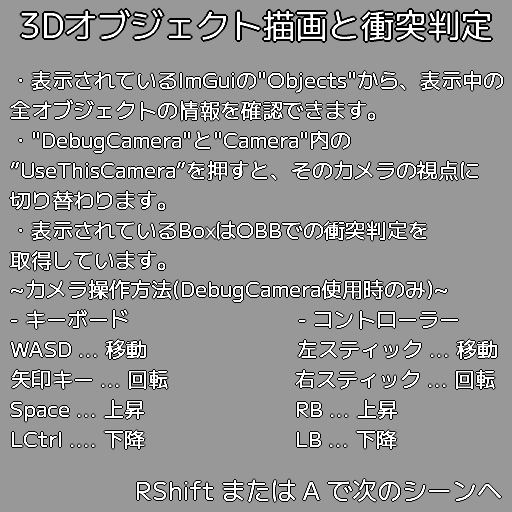
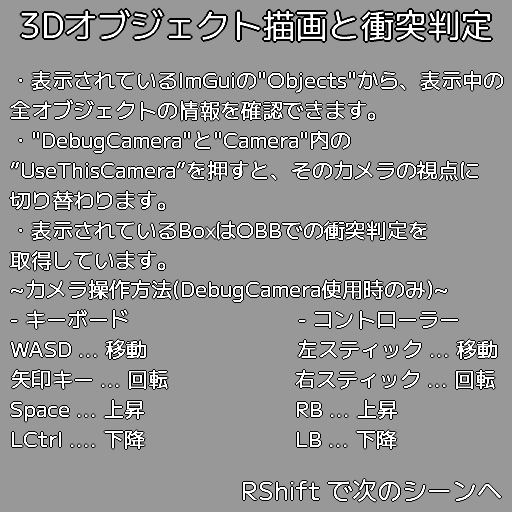
GE3のデモシーンの完成

Changed region(s): [[0.25, 0.9375, 0.625, 1.0]]

diff --git a/Engine/Scene/User/SampleScene.cpp b/Engine/Scene/User/SampleScene.cpp
@@ -13,16 +13,14 @@ void SampleScene::Init()
 	sk->transform_.rotate_.y = -(float)std::numbers::pi / 2.0f;
 
 	// 該当シーンのマネージャーを生成
-	gameObjectManager_->CreateInstance<ObjectSceneManager>("ObjectSceneManager", BaseObject::TagNone);
+	ObjectSceneManager* osm = gameObjectManager_->CreateInstance<ObjectSceneManager>("ObjectSceneManager", BaseObject::TagNone);
+	osm->SetSceneNo(false);
 
 	// テストオブジェクトの生成
 	TestObject* test = gameObjectManager_->CreateInstance<TestObject>("Test", BaseObject::TagPlayer);
 	test->transform_.translate_.x = -1.5f;
 	test = gameObjectManager_->CreateInstance<TestObject>("Test", BaseObject::TagNone);
 	test->transform_.translate_.x = 1.5f;
-
-	// 複雑なモデルの描画
-	gameObjectManager_->CreateInstance<Rifle>("Rifle", BaseObject::TagNone);
 
 	// パーティクル生成
 	ParticleEmitterManager::GetInstance()->CreateEmitter<IParticleEmitter, IParticle>("test", 100, 5, {0.0f, 5.0f, 10.0f}, 20000.0f, 0.1f, TextureManager::Load("./Engine/Resource/Samples/Texture", "circle.png"));
@@ -32,6 +30,6 @@ void SampleScene::Update()
 {
 	// デバッグ遷移
 	if (input_->TriggerKey(DIK_RSHIFT)) {
-		SceneManager::GetInstance()->ChangeScene("");
+		SceneManager::GetInstance()->ChangeScene("SampleScene2");
 	}
 }

diff --git a/Engine/Scene/User/SampleScene2.cpp b/Engine/Scene/User/SampleScene2.cpp
@@ -1,0 +1,29 @@
+#include "SampleScene2.h"
+#include "../../GameObject/SampleList.h"
+#include "../SceneManager.h"
+
+void SampleScene2::Init()
+{
+	// オブジェクトの生成
+	gameObjectManager_->CreateInstance<Camera>("Camera", BaseObject::TagCamera);
+
+	// スカイドームの生成
+	SkyDome* sk = gameObjectManager_->CreateInstance<SkyDome>("SkyDome", BaseObject::TagNone);
+	sk->transform_.rotate_.y = -(float)std::numbers::pi / 2.0f;
+
+	// 複雑なモデルの描画
+	gameObjectManager_->CreateInstance<Rifle>("Rifle", BaseObject::TagNone);
+
+	// 該当シーンのマネージャーを生成
+	ObjectSceneManager* osm = gameObjectManager_->CreateInstance<ObjectSceneManager>("ObjectSceneManager", BaseObject::TagNone);
+	osm->SetSceneNo(true);
+
+}
+
+void SampleScene2::Update()
+{
+	// デバッグ遷移
+	if (input_->TriggerKey(DIK_RSHIFT)) {
+		SceneManager::GetInstance()->ChangeScene("");
+	}
+}

diff --git a/Engine/GameObject/User/ObjectSceneManager/ObjectSceneManager.cpp b/Engine/GameObject/User/ObjectSceneManager/ObjectSceneManager.cpp
@@ -5,6 +5,7 @@ void ObjectSceneManager::Init()
 {
 	// スプライト追加
 	AddSprite("UI", { 760.0f, 200.0f }, { 512.0f, 512.0f }, TextureManager::Load("SceneTex1.png"));
+	AddSprite("UI2", { 760.0f, 200.0f }, { 512.0f, 256.0f }, TextureManager::Load("SceneTex2.png"));
 }
 
 void ObjectSceneManager::Update()
@@ -16,4 +17,20 @@ void ObjectSceneManager::DisplayImGui()
 {
 	// スプライトのImGuiを表示する
 	sprites_[0]->DisplayImGui();
+}
+
+void ObjectSceneManager::SetSceneNo(bool scene)
+{
+	if (scene) {
+		// フラグによって表示内容を変える
+		sprites_[0]->SetIsActive(false);
+		sprites_[1]->SetIsActive(true);
+
+		sprites_[1]->translate_.y = 0.0f;
+	}
+	else {
+		// フラグによって表示内容を変える
+		sprites_[1]->SetIsActive(false);
+		sprites_[0]->SetIsActive(true);
+	}
 }

diff --git a/Engine/Scene/User/SampleScene2.h b/Engine/Scene/User/SampleScene2.h
@@ -1,0 +1,24 @@
+#pragma once
+#include "../BaseScene.h"
+
+/// <summary>
+/// 主にアニメーション再生、音のサンプルシーン
+/// </summary>
+class SampleScene2 : public BaseScene
+{
+public: // メンバ関数
+
+	/// <summary>
+	/// 初期化関数
+	/// </summary>
+	void Init() override;
+
+	/// <summary>
+	/// 更新関数
+	/// </summary>
+	void Update() override;
+
+private: // メンバ変数
+
+};
+

diff --git a/Engine/GameObject/User/Rifle/Rifle.cpp b/Engine/GameObject/User/Rifle/Rifle.cpp
@@ -18,7 +18,7 @@ void Rifle::Init()
 	reloadSE_ = audio_->LoadWave("./Resources/Audio/Reload.wav");
 
 	// 各種トランスフォームの初期化
-	transform_.translate_ = { 1.35f, 2.25f, 2.5f };
+	transform_.translate_ = { 1.5f, 0.8f, 2.5f };
 	transform_.rotate_.y = -(float)std::numbers::pi / 2.0f;
 	baseTransform_.Init();
 	baseTransform_.SetParent(&transform_);

diff --git a/Engine/Scene/SceneFactory.cpp b/Engine/Scene/SceneFactory.cpp
@@ -17,6 +17,12 @@ BaseScene* SceneFactory::CreateScene(const std::string& name)
 		newScene = new GameScene();
 	}
 
+	// サンプルシーンの生成
+	if (name == "SampleScene2") {
+		// ゲームシーンを生成
+		newScene = new SampleScene2();
+	}
+
 	// 生成したシーンを受け取り元に渡す
 	return newScene;
 }

diff --git a/Engine/GameObject/User/ObjectSceneManager/ObjectSceneManager.h b/Engine/GameObject/User/ObjectSceneManager/ObjectSceneManager.h
@@ -23,5 +23,10 @@ public: // メンバ関数
 	/// </summary>
 	void DisplayImGui() override;
 
+	/// <summary>
+	/// シーンによって表示内容を変える
+	/// </summary>
+	/// <param name="scene">変更シーン</param>
+	void SetSceneNo(bool scene);
 };
 

diff --git a/Engine/Scene/SceneList.h b/Engine/Scene/SceneList.h
@@ -4,5 +4,6 @@
 ==================================*/
 
 #include "User/SampleScene.h"
+#include "User/SampleScene2.h"
 #include "User/TitleScene.h"
 #include "User/GameScene.h"
